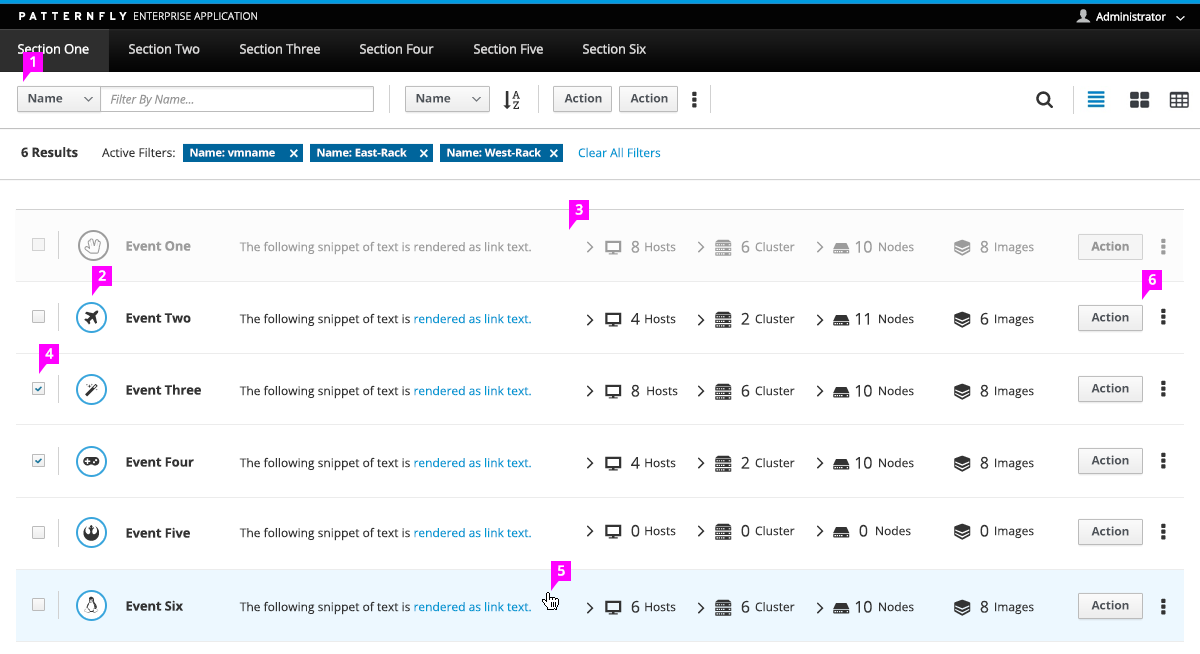
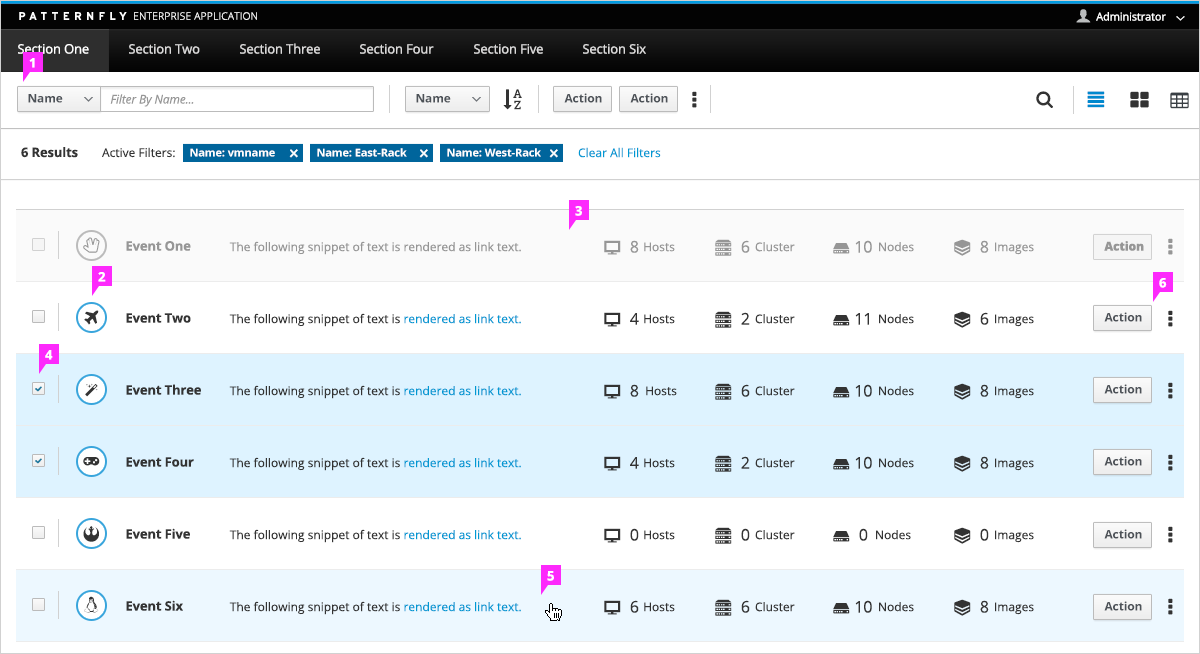
Updates to ListView Mockup
- Update the mockup image with correct background colors of selected
rows.
- Modified the typo of selected color.

diff --git a/pattern-library/content-views/list-view/design/design.md b/pattern-library/content-views/list-view/design/design.md
@@ -47,7 +47,7 @@
 The background color of a row will change to indicate current states. These are listed with corresponding hex color values below:
 
 * Hover - when the user hovers over a row (#edf8ff)
-* Selected - when the user selects a row via single click or selecting the checkbox (pf-blue-50, #def3fff)
+* Selected - when the user selects a row via single click or selecting the checkbox (pf-blue-50, #def3ff)
 * Open - when a row is expanded (pf-blue-50, #def3ff)
 * Edit - when a row is in edit mode via [inline edit](http://www.patternfly.org/pattern-library/forms-and-controls/inline-edit) (pf-blue-50, #def3ff)
 * Disabled - when a row is disabled (pf-black-100, #fafafa)
